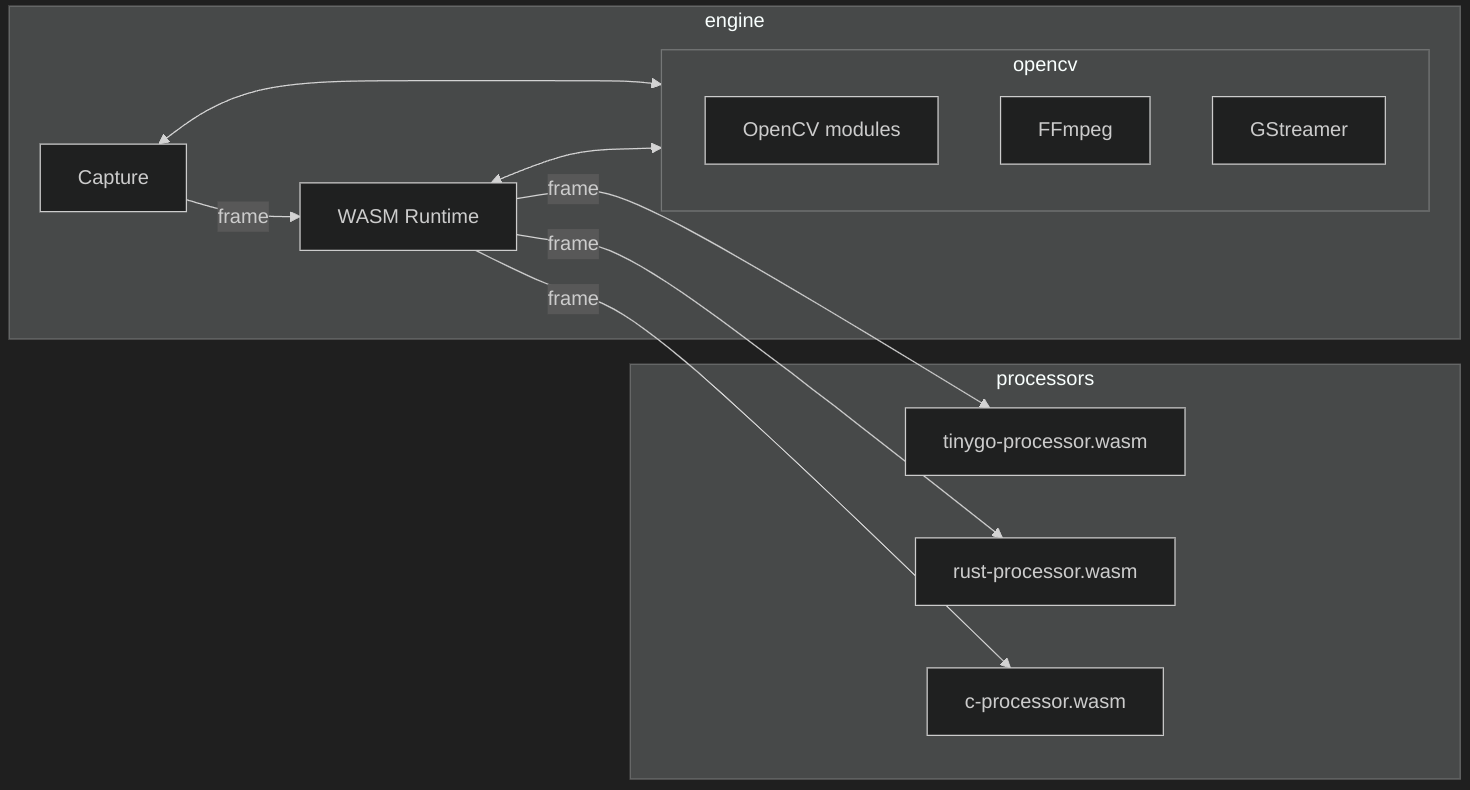
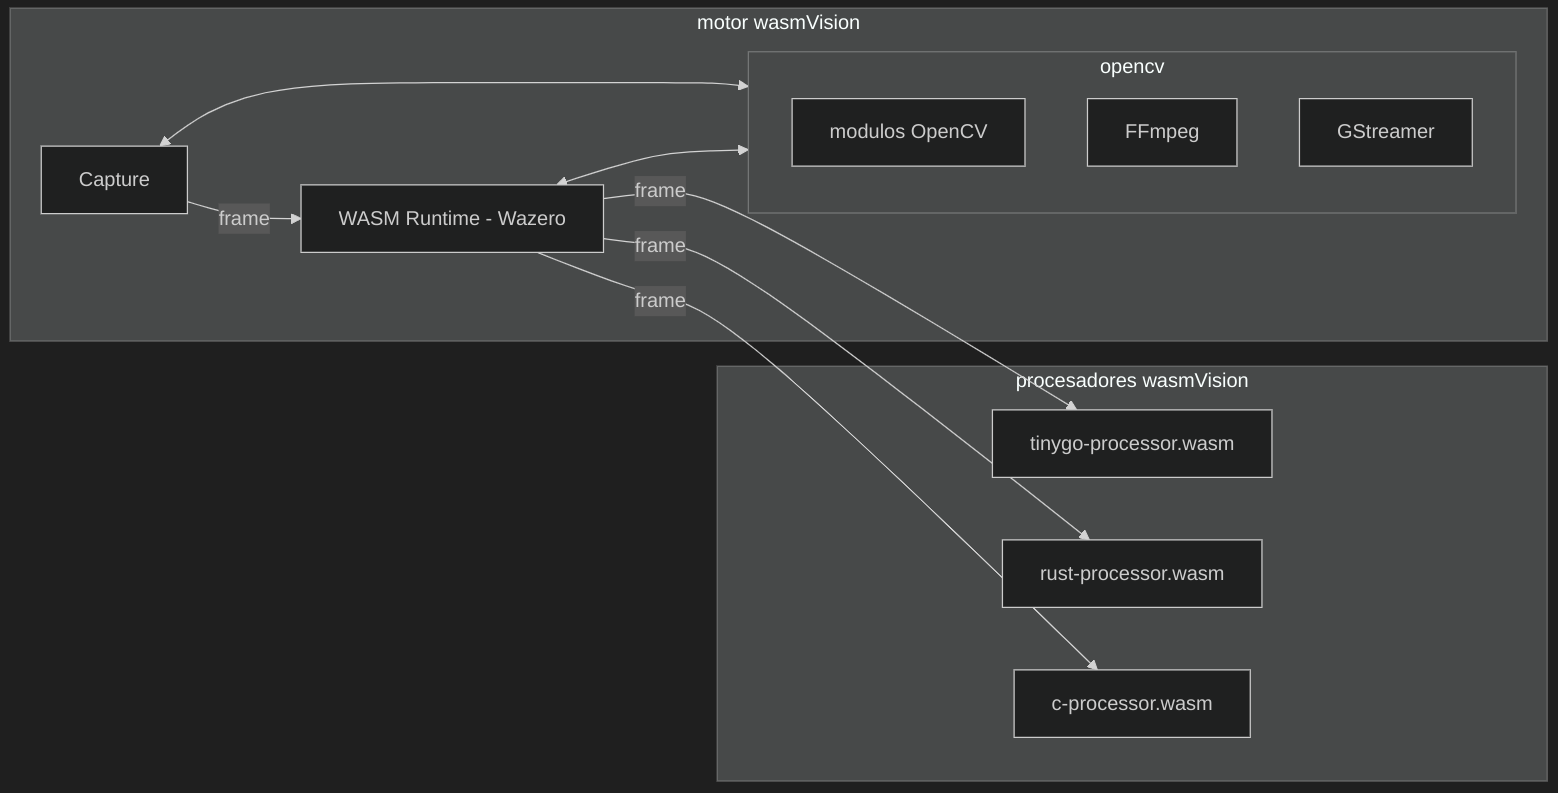
further revisions

diff --git a/index.html b/index.html
@@ -100,6 +100,13 @@
 			</section>
 
 			<section>
+				<div class="image-container">
+				  <img src="images/webassembly-logo.png">
+				</div>
+				<h3>webassembly.org</h3>          
+			</section>
+
+			<section>
 				<h2>bytecode</h2>
 			</section>
 
@@ -769,7 +776,7 @@ cargo build --target wasm32-unknown-unknown --release
 		</section>
 
 		<section>
-			<h2>version 0.4 available now!</h2>
+			<h2>Versión 0.4 ya está disponible</h2>
 		</section>
 
 		<section>

diff --git a/diagrams/wasmvision-arch.md b/diagrams/wasmvision-arch.md
@@ -1,18 +1,18 @@
 ```mermaid
 flowchart LR
-    subgraph engine
+    subgraph motor wasmVision
         Capture
-        Runtime[WASM Runtime]
+        Runtime[WASM Runtime - Wazero]
         Capture--frame-->Runtime
         Capture<-->opencv
         Runtime<-->opencv
     end
     subgraph opencv
-        modules[OpenCV modules]
+        modulos[modulos OpenCV]
         FFmpeg
         GStreamer
     end
-    subgraph processors
+    subgraph procesadores wasmVision
         Runtime--frame-->tinygo-processor.wasm
         Runtime--frame-->rust-processor.wasm
         Runtime--frame-->c-processor.wasm
